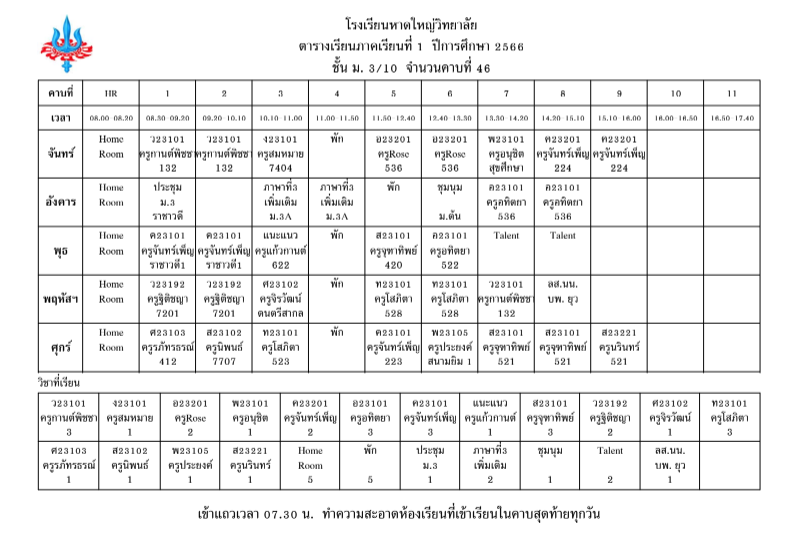
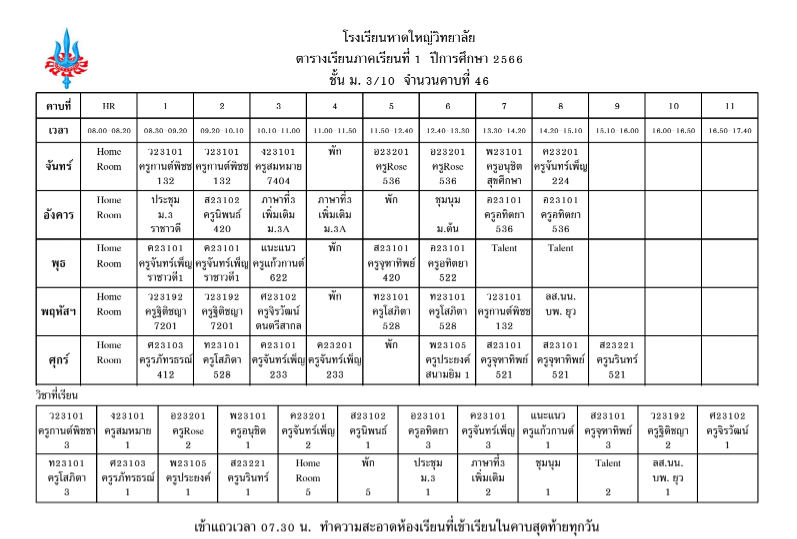
Update file

Changed region(s): [[0.0301, 0.0297, 0.9636, 1.0]]

diff --git a/index.html b/index.html
@@ -63,8 +63,10 @@
     <div class="container px-4 py-5" id="hanging-icons">
         <h2 class="pb-2 border-bottom">ตารางเรียน - Timetable</h2>
         <br>
-        <h4 style="color: red;">อัพเดทล่าสุด : 10/05/2566</h4>
-        <p>15-19 พ.ค. 2566 : เปิดภาคเรียนที่ 1/2566 ทดลองใช้สัปดาห์ที่ 1</p>
+        <h4 style="color: red;">อัพเดทล่าสุด : 28 พ.ค. 2566</h4>
+        <p>ตามที่ได้รับข้อมูลเพื่อปรับปรุง แก้ไขตารางเรียน และตารางสอนจากทุกฝ่าย
+            งานจัดการเรียนการสอนจึงได้ปรับปรุงให้ถูกต้อง
+            และ<strong>เริ่มใช้ตารางสอน ฉบับที่ 2 ตั้งแต่วันจันทร์ที่ 29 พฤษภาคม 2566 เป็นต้นไป</strong></p>
         <br>
         <img src="/cdn/Table.png" class="d-block mx-lg-auto img-fluid" alt="Bootstrap Themes" width="700" height="500"
             loading="lazy">
